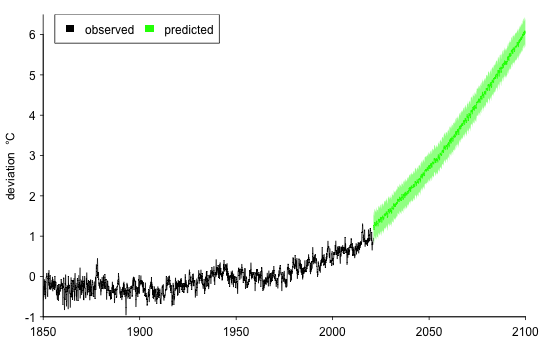
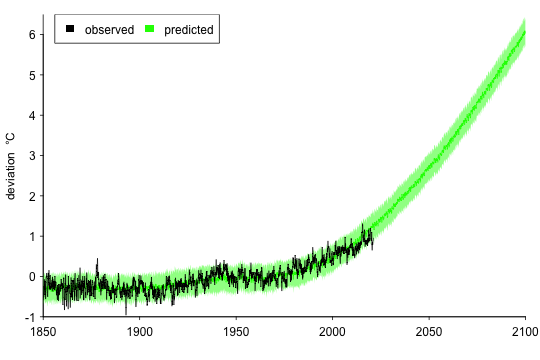
in response to reviewers, several figures were updated for clarity.

Changed region(s): [[0.0593, 0.5806, 0.7111, 0.8556]]

diff --git a/code/analysis.py b/code/analysis.py
@@ -101,7 +101,8 @@ Sigma_0_hat = np.expand_dims(Sigma_hat[1:,0],1) # column vector
 Sigma_mod_hat = Sigma_hat[1:,1:]
 Sigma_mod_hat_inv = np.linalg.inv(Sigma_mod_hat)
 
-obs_pred = mu_hat[2061:3036] - np.matmul(np.matmul(Sigma_0_hat.T, Sigma_mod_hat_inv), re_hat_all_np[2061:3036,1:].T).T
+
+obs_pred = mu_hat - np.matmul(np.matmul(Sigma_0_hat.T, Sigma_mod_hat_inv), re_hat_all_np[:,1:].T).T
 obs_var = sigma_0_hat - np.matmul(np.matmul(Sigma_0_hat.T, Sigma_mod_hat_inv), Sigma_0_hat)
 
 observed_ts = y_all['observed'][~np.isnan(y_all['observed'])]
@@ -111,8 +112,10 @@ gpre_vis = pd.DataFrame([x,
                          np.squeeze(mu_hat),
                          np.squeeze(mu_var),
                          observed_ts,
-                         np.append(np.repeat(np.nan, observed_ts.shape[0]), obs_pred),
+                         np.squeeze(obs_pred),
                          np.repeat(np.squeeze(obs_var), observed_ts.shape[0])]).T
 gpre_vis.columns = ['x', 'y_mean', 'mu_hat', 'mu_hat_var', 'observed', 'obs_pred', 'obs_var_scalar']
 
-gpre_vis.to_csv('output/gpre_vis/preds_obs.csv', index=False)
+gpre_vis.to_csv('output/gpre_vis/preds_obs_long.csv', index=False)
+
+
